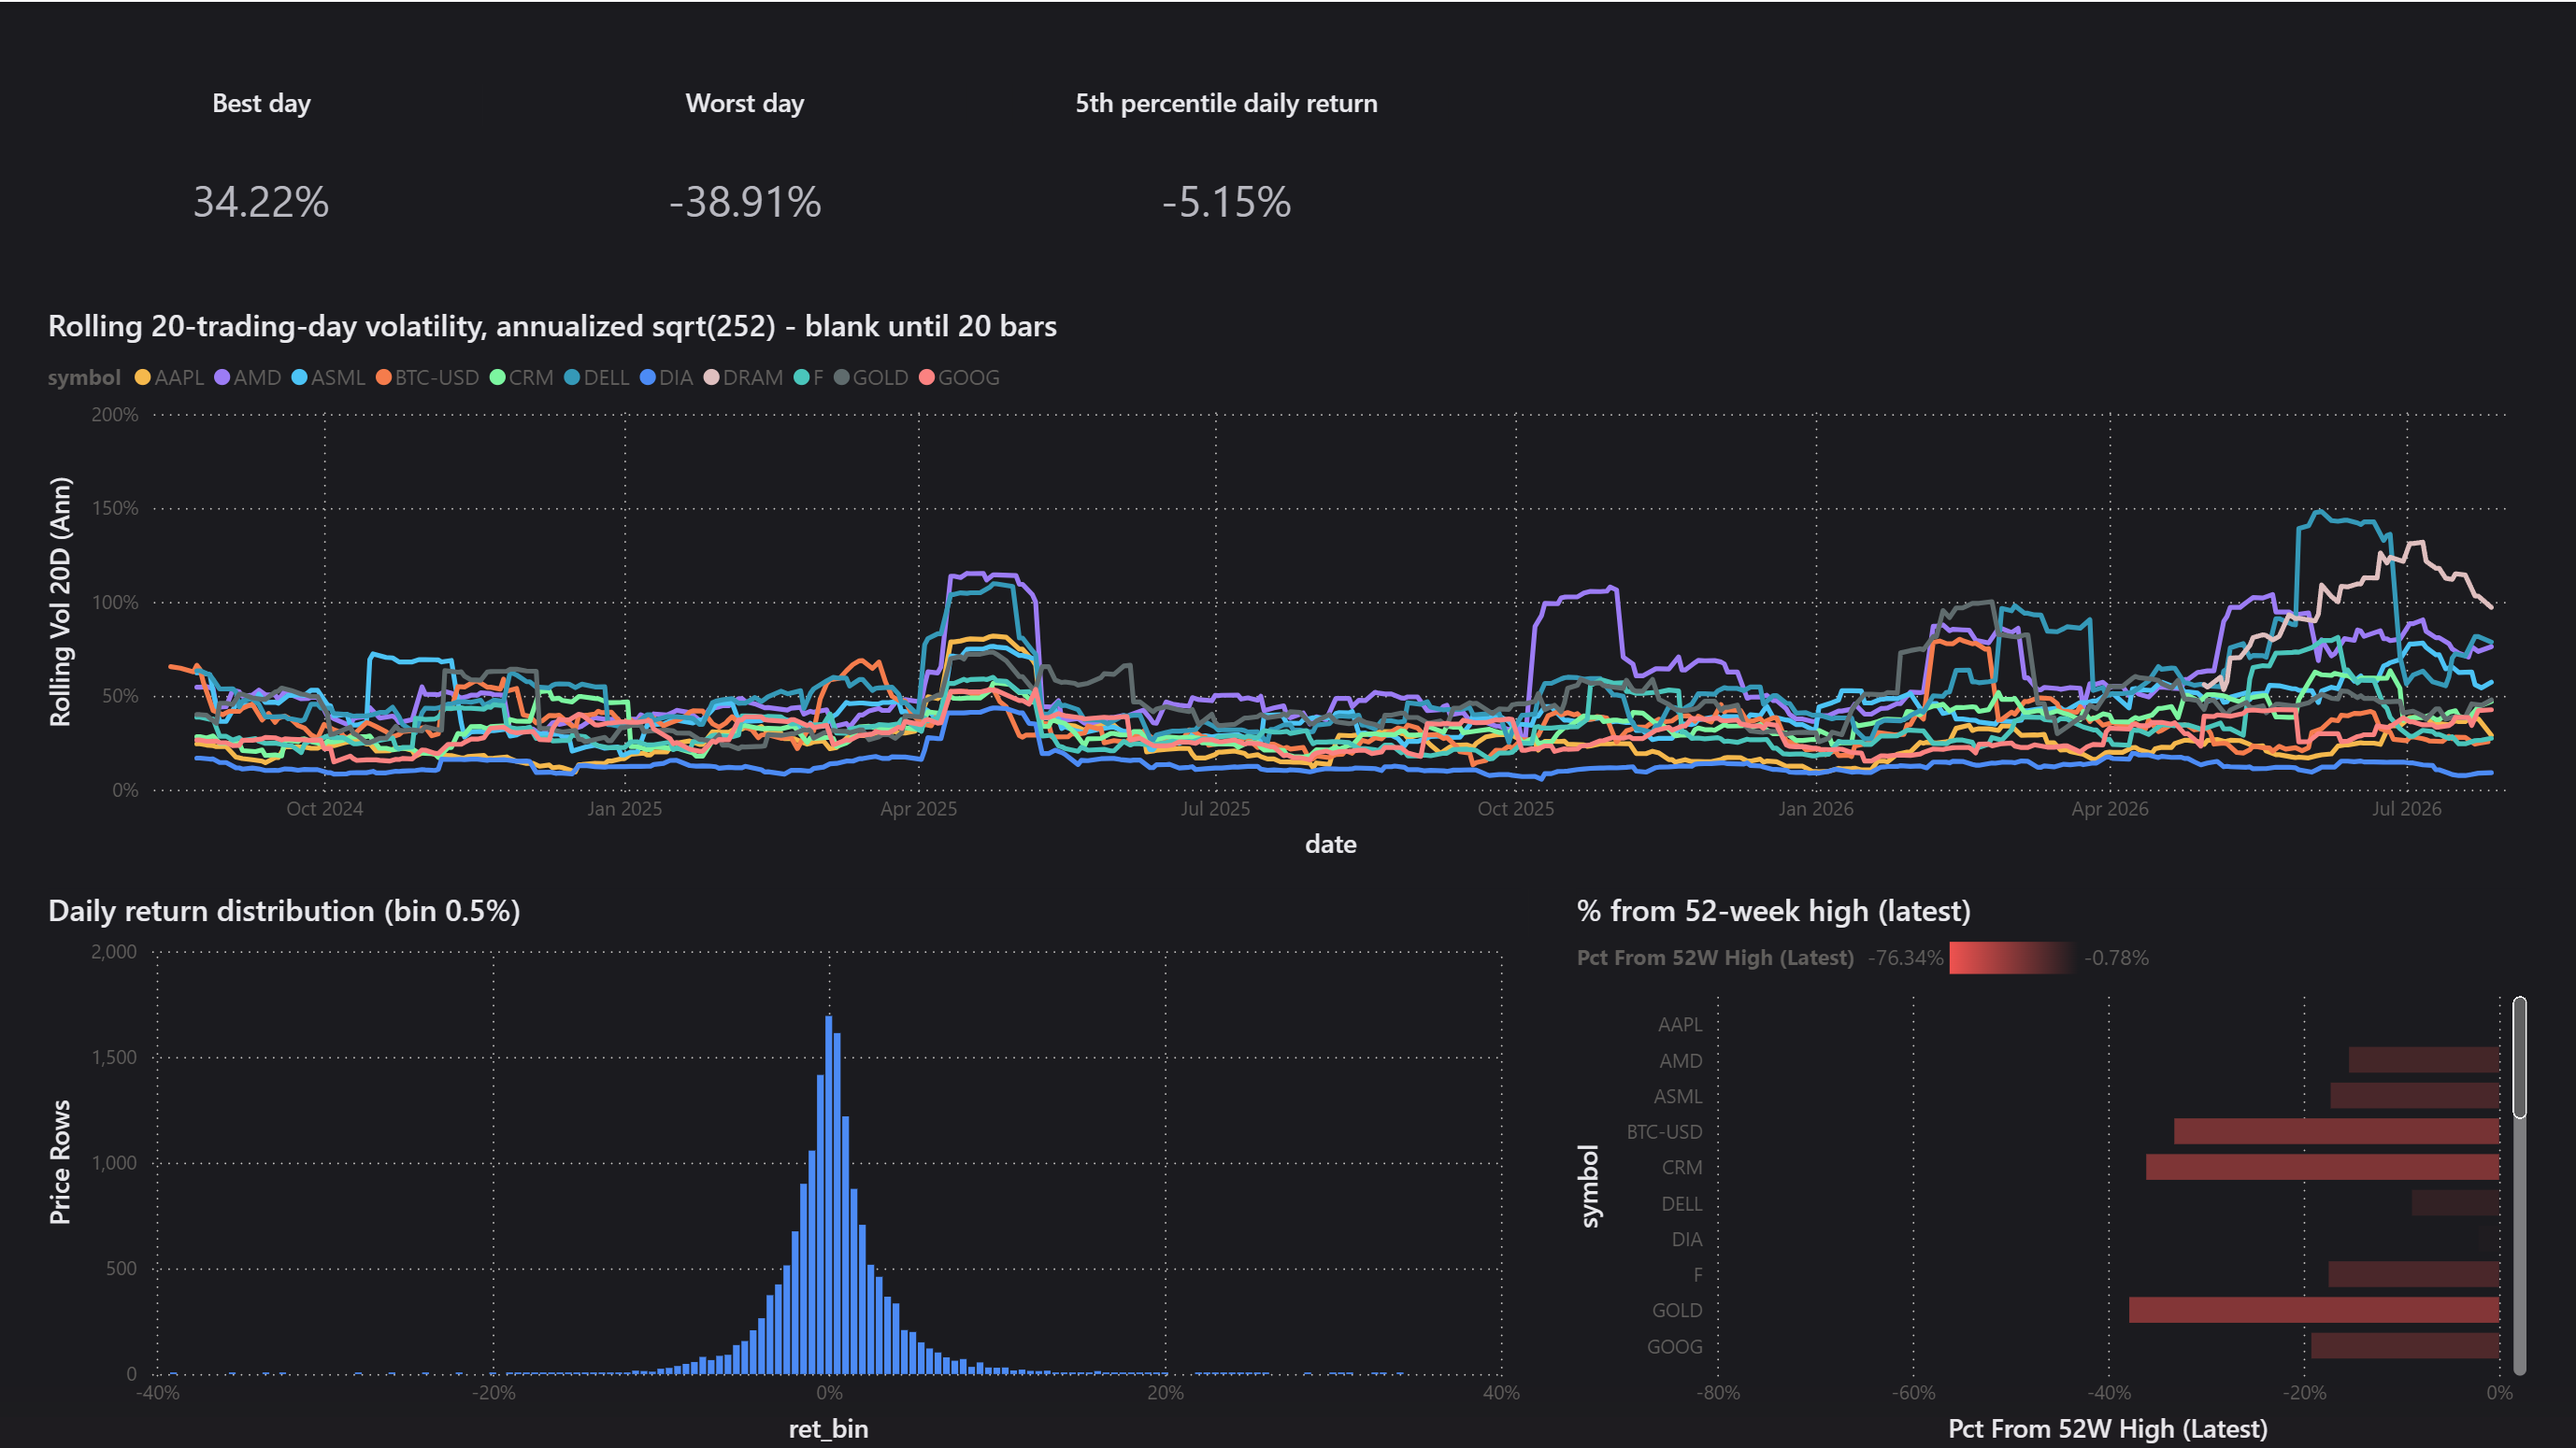
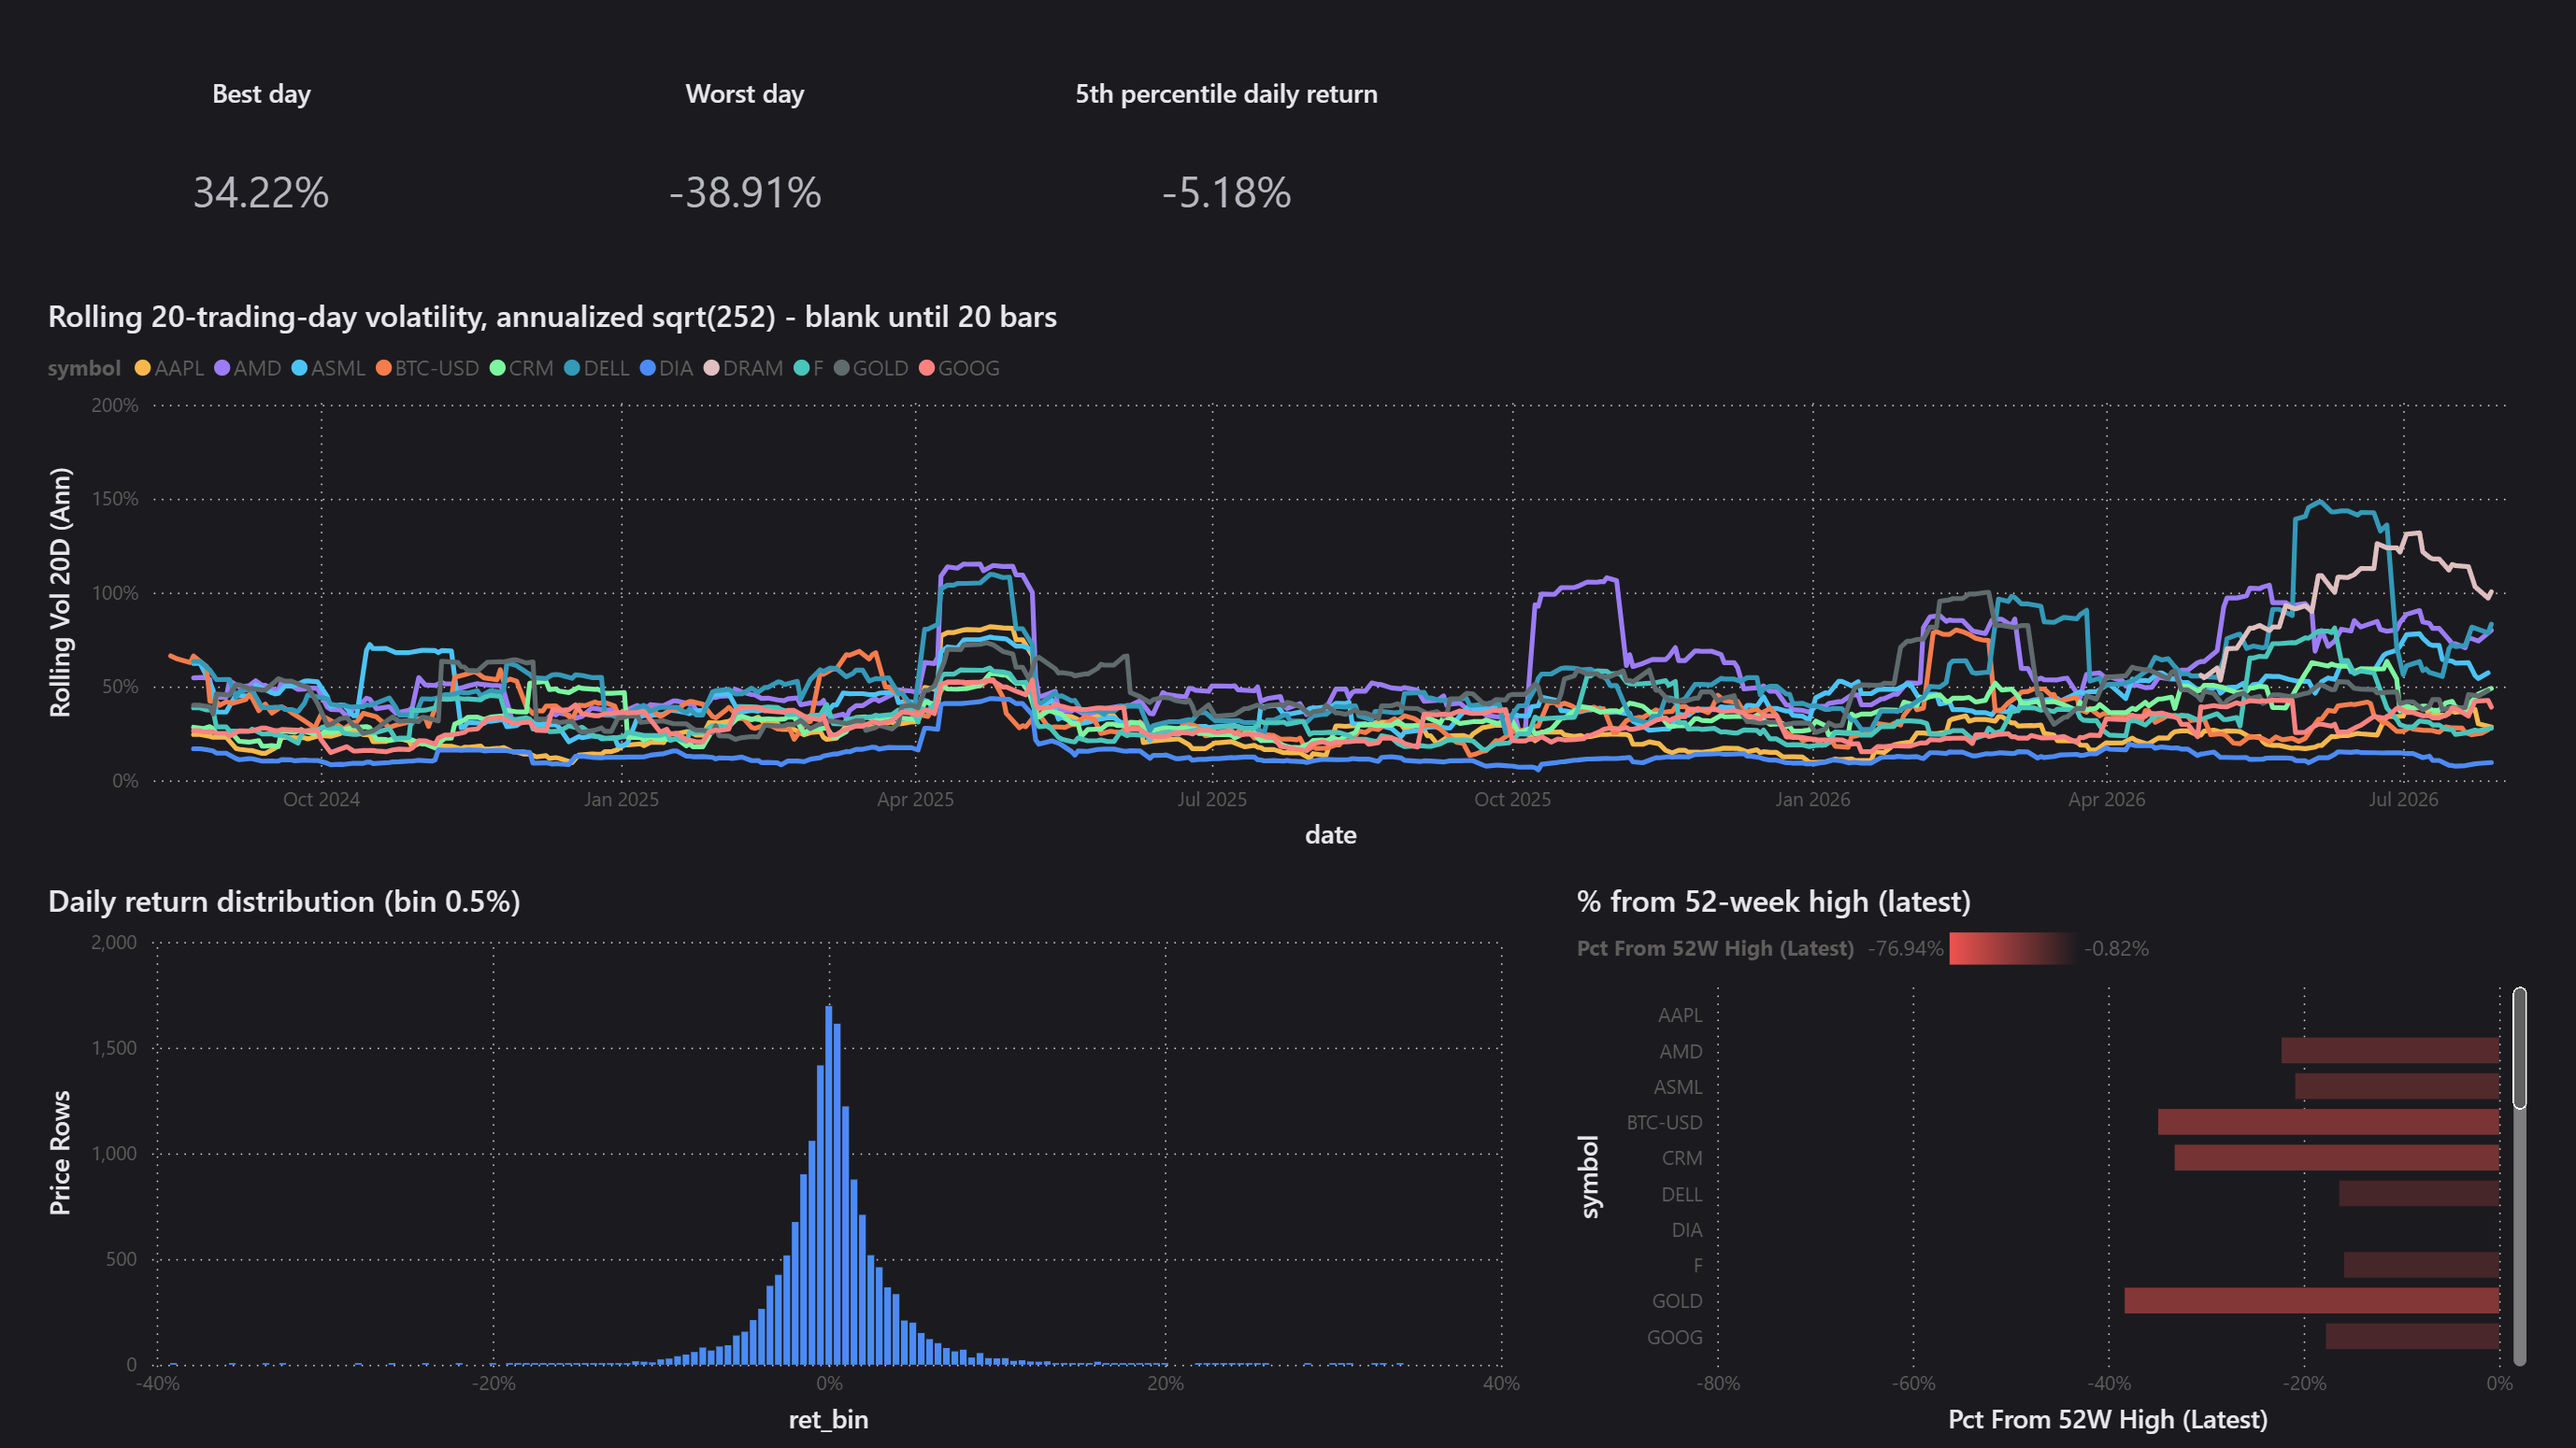
chore: data advance to 07-28 close, QA anchors and screenshots follow

diff --git a/powerbi/README.md b/powerbi/README.md
@@ -22,7 +22,7 @@ plain-text TMDL and the report layout is generated by
 
 ## Open / refresh
 
-1. `python scripts/warehouse.py --export` regenerates `tableau/exports/*.csv`
+1. `python scripts/warehouse.py --export` regenerates `data/exports/*.csv`
    (gitignored — the PBIP stores no data; open on a fresh machine requires this
    step first).
 2. Open `QuantAI.pbip` in Power BI Desktop (free; Store build 2.156 verified).
@@ -46,7 +46,7 @@ plausible-but-wrong numbers if missed:
 
 1. **The window is 20 trading rows, not 20 calendar days.** Translating
    `WINDOW_STDEV(..., -19, 0)` as `DATESINPERIOD(-20, DAY)` is the natural and
-   wrong move. Measured on the current export (SPY, last date 2026-07-27): the
+   wrong move. Measured on the 2026-07-27 export (SPY, last date 2026-07-27): the
    20 trading rows span **28 calendar days**; a 20-calendar-day window keeps
    only **14 samples** and reads annualized vol **0.1016 vs 0.1132** — about
    **10% low**, with nothing visibly wrong on the chart. The DAX therefore
@@ -94,24 +94,25 @@ Class 1 alone cannot detect a dead relationship: every Class-1 check is a row
 count, a single-row scalar, or a windowed measure that re-filters fact columns
 itself, so **all 53 passed while every date relationship was broken**.
 Three further checks pin the blank-member fix (next section): the `(untagged)`
-row count (500), `DISTINCTCOUNTNOBLANK(dim_symbol[symbol])` (35), and a canary
+row count (527 on the current export), `DISTINCTCOUNTNOBLANK(dim_symbol[symbol])` (35), and a canary
 that counts fact_news rows attached to the RI-violation blank member (**must
 be BLANK** — any future unmatched symbol value turns it red).
 
-Result on 2026-07-28 (post-cleanup): **66 / 67 PASS, 1 SKIPPED by design**
+Result on 2026-07-28 (data at the 07-28 close, exports under `data/exports`):
+**66 / 67 PASS, 1 SKIPPED by design**
 (`fact_trades.csv` has 0 rows and is deliberately not loaded).
 
 ## Foreign-key nulls and the `(Blank)` slicer member
 
 A full FK null scan **without `.dropna()`** (the original spec's "referential
 integrity is clean" claim came from a `dropna()`-poisoned check): every date
-key and every symbol key is 0-null **except `fact_news.symbol` — 500 of 5,581
+key and every symbol key is 0-null **except `fact_news.symbol` — 527 of 5,870
 rows are null** (news not attributable to one ticker). Once `symbol_to_news`
-went live, those 500 rows matched nothing in `dim_symbol` and Power BI
+went live, those rows matched nothing in `dim_symbol` and Power BI
 manufactured a `(Blank)` member that led every slicer. Fix, in M: null/empty
 symbols are remapped to **`(untagged)`** at import, and `dim_symbol` appends
 the matching row (its model row count is therefore **35 = 34 CSV rows + 1**,
-which the `rowcount_dim_symbol` check now expects). The 500 news rows keep
+which the `rowcount_dim_symbol` check now expects). The untagged news rows keep
 their real meaning ("not tied to a symbol") instead of hiding in a blank.
 
 One test-design note: the obvious check `DISTINCTCOUNT(dim_symbol[symbol]) =
@@ -196,7 +197,7 @@ model, while four others worked. Diagnosis and mechanism:
   gap. Position figures are the author's real (small) holding, kept as-is so
   every reconciliation number traces to source data. No account identifiers
   are included.
-- `fact_news.sentiment` covers **122 of 5,581 rows (2.19%)** — the coverage is
+- `fact_news.sentiment` covers **122 of 5,870 rows (2.08%)** — the coverage is
   printed on the News page as a card, and no average is presented as a
   population statement.
 - The combo chart needs a single symbol selected to be readable (noted in its
